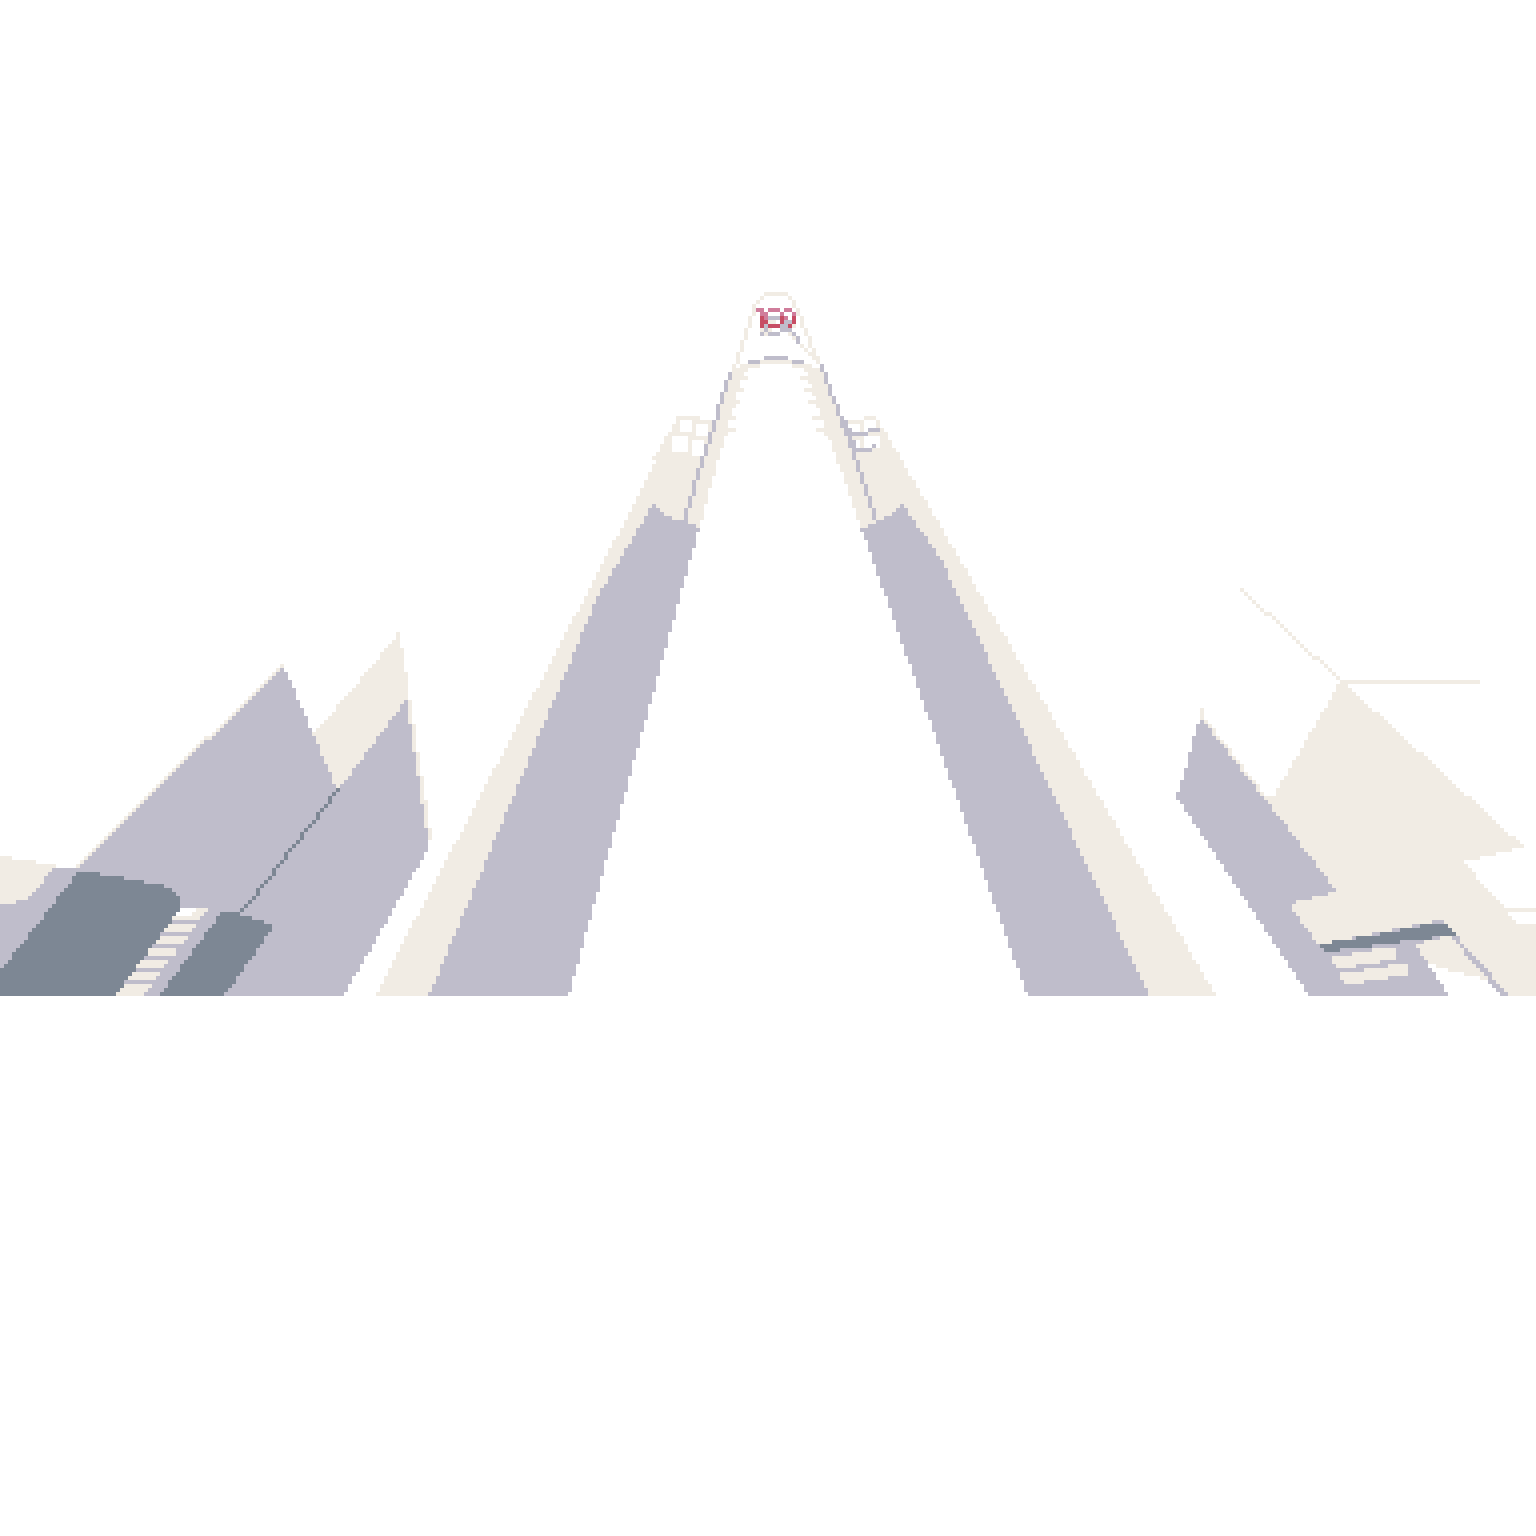
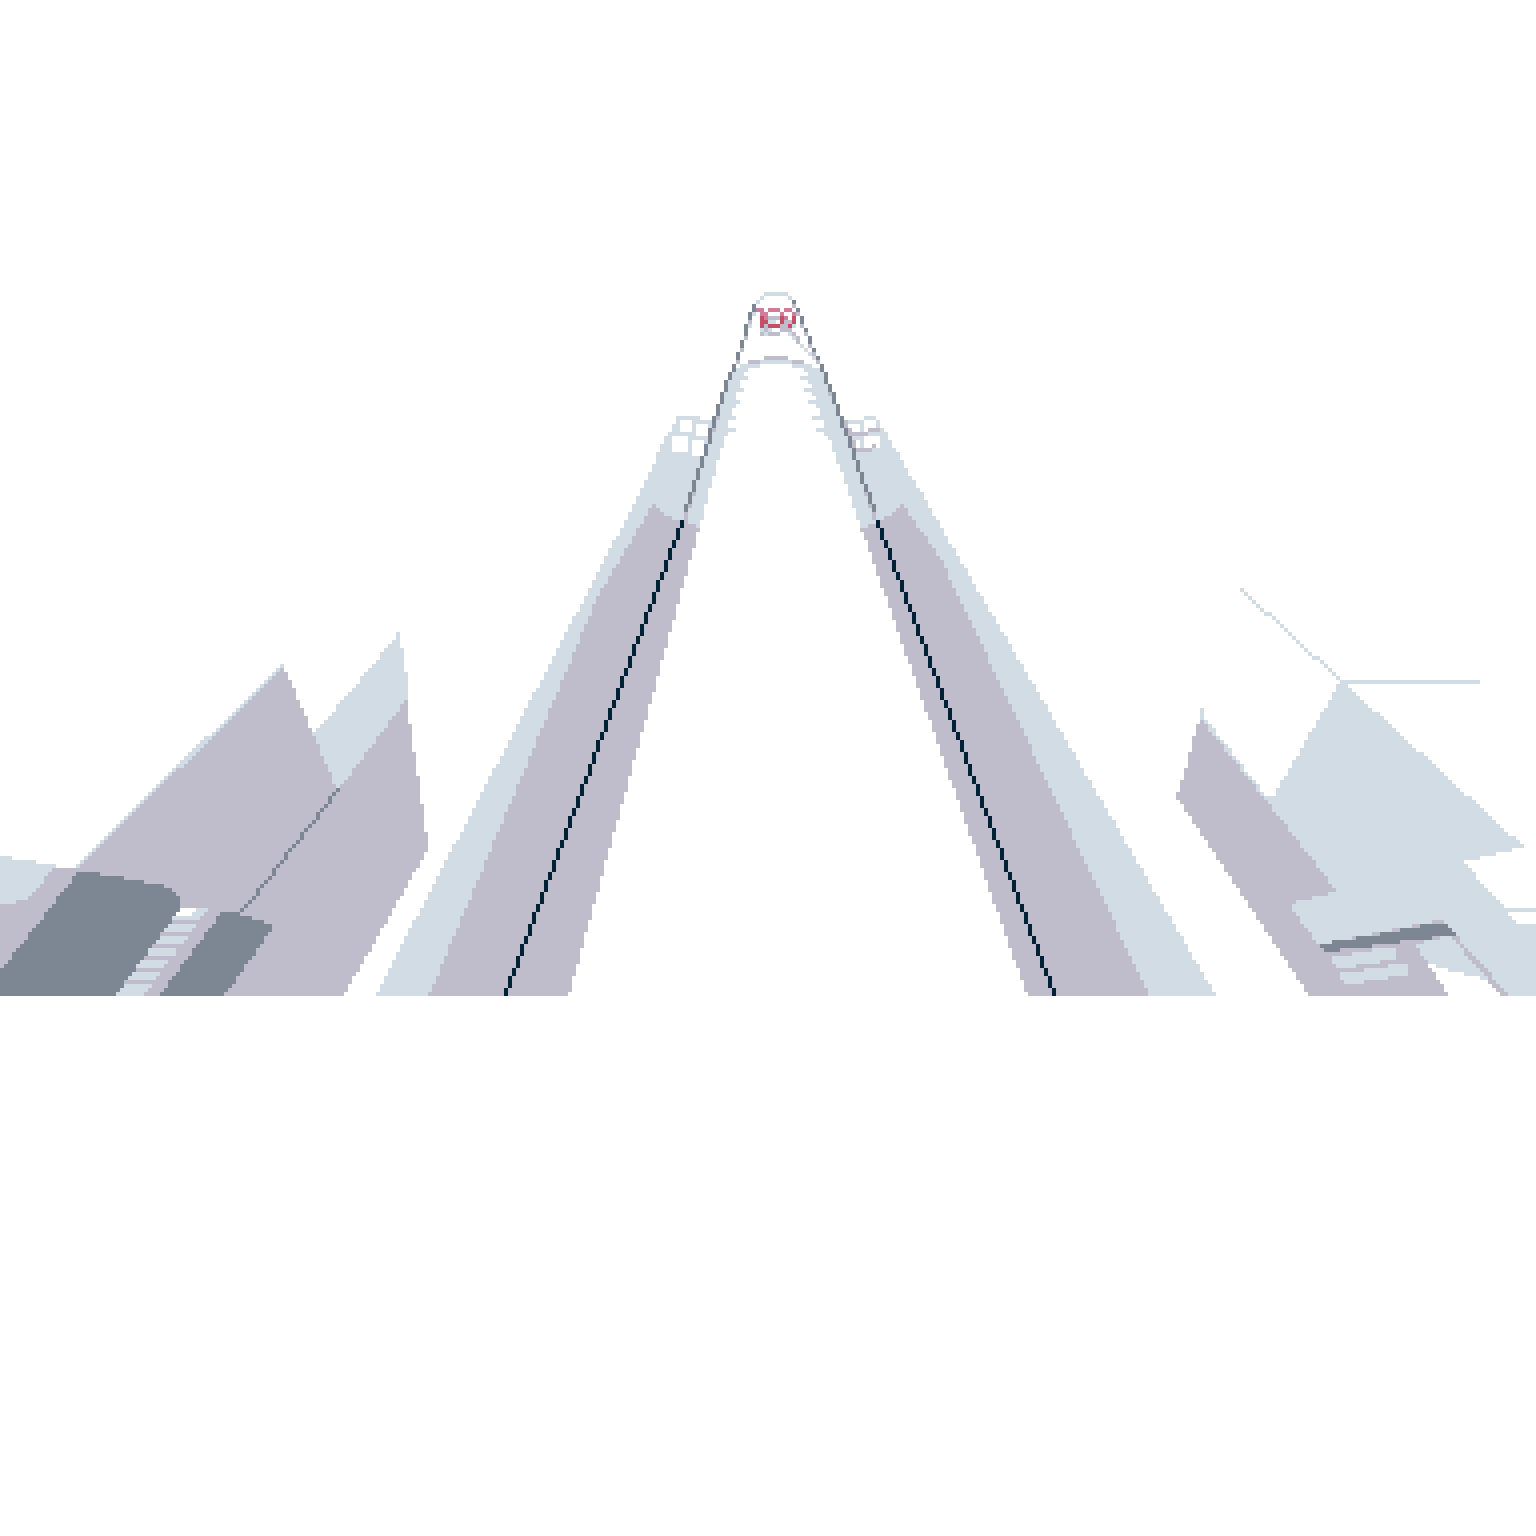
add SHIBUYA hidedly

diff --git a/dance.js b/dance.js
@@ -68,6 +68,8 @@ function preload() {
 
     imgra = loadImage("ra.png");
     imgsi = loadImage("si.png");
+    imgbu = loadImage("bu.png");
+    imgya = loadImage("ya.png");
 }
 
 function setup () {
@@ -105,19 +107,19 @@ function draw() {
     if(y < height*2/3){
         if(objDice===1){
             image(imgneonb, x, y, 13*scal, 36*scal, tr);
-        } else if (objDice===2 || objDice === 9) {
+        } else if (objDice===2) {
             image(imgneonp, x, y, 10*scal, 36*scal, tr);
         } else if (objDice<30 && objDice>=25) {
             image(imgbuild_l, x, y, 9*scal, 41*scal, tr);
         } else if (objDice <20 && objDice >= 15) {
             image(imgbuild_s, x, y, 14*scal, 28*scal);
-        } else if (objDice === 5) {
+        } else if (objDice === 3) {
             image(imgneonp2, x, y, 10*scal, 36*scal, tr);
-        } else if (objDice === 6) {
+        } else if (objDice === 4) {
             image(imgneonp3, x, y, 10*scal, 36*scal, tr);
-        } else if (objDice === 7) {
+        } else if (objDice === 5) {
             //image(imgneony, x, y, 10*scal, 36*scal, tr);
-        } else if (objDice === 8) {
+        } else if (objDice === 6) {
             image(imgneonp4, x, y, 10*scal, 36*scal, tr);
         }
     } else {
@@ -135,6 +137,17 @@ function draw() {
             image(imgfishred, x, y, 13*scal, 17*scal);
         } else if (objDice === 7){
             image(imgfishbk, x, y, 8*scal, 14*scal);
+        }
+    }
+
+    // 上のほうに一瞬文字を表示する
+    if (x > 77*scal && x < (actualSize-77)*scal && y < 90*scal) {
+        if(objDice === 9) {
+            image(imgya, x, y, 14*scal, 14*scal);
+        } else if (objDice === 10){
+            image(imgsi, x, y, 13*scal, 14*scal);
+        } else if (objDice === 8){
+            image(imgbu, x, y, 16*scal, 15*scal);
         }
     }
 
